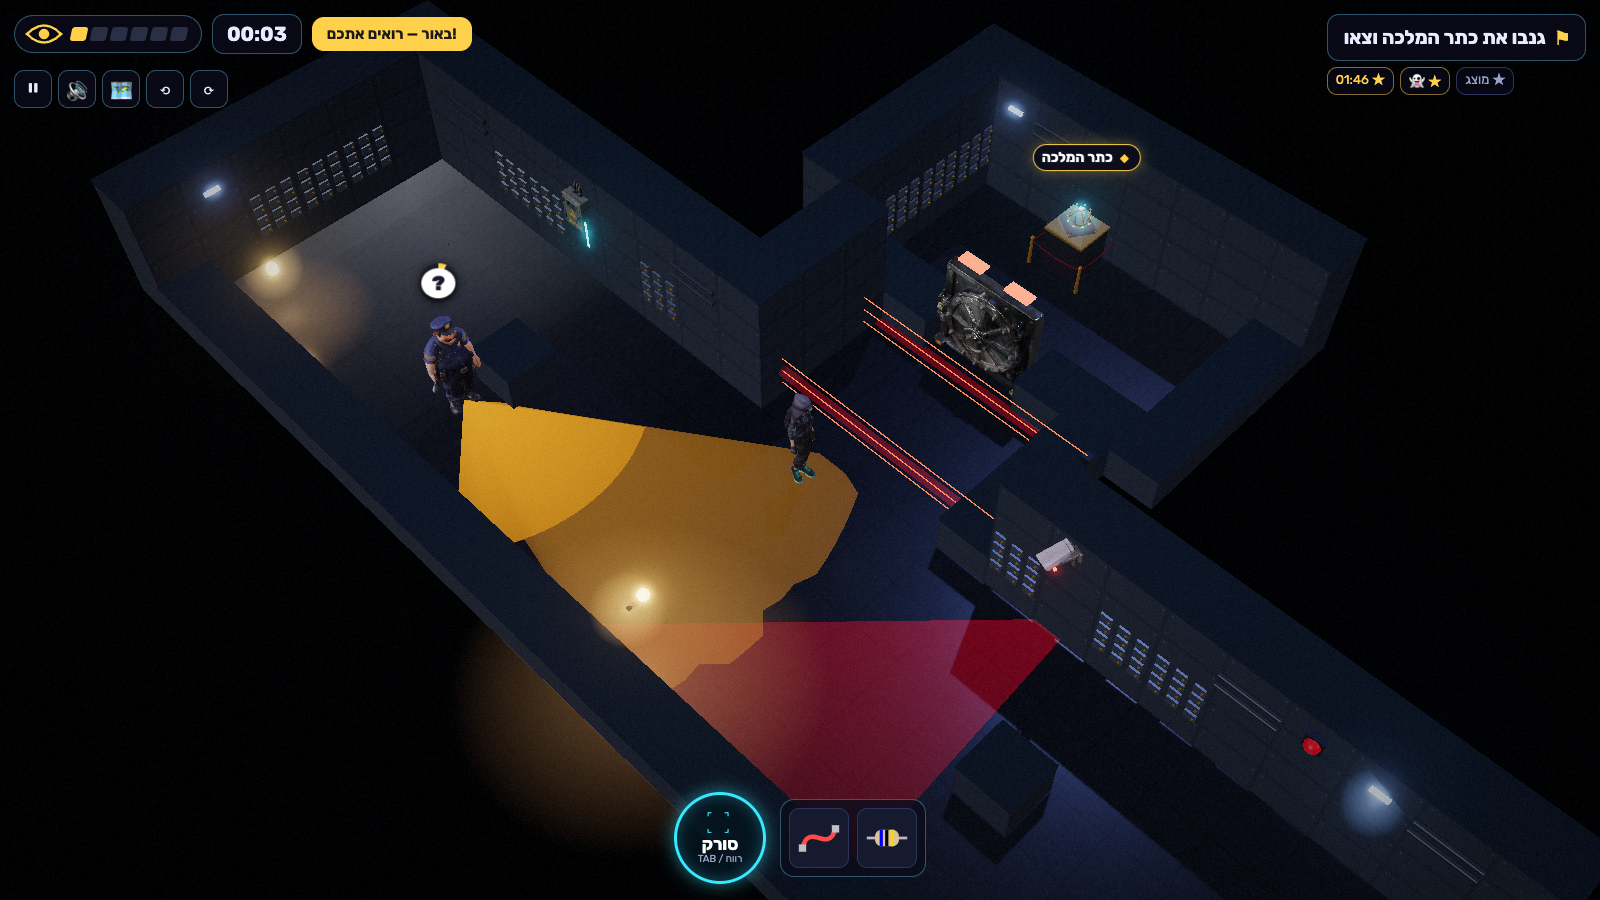
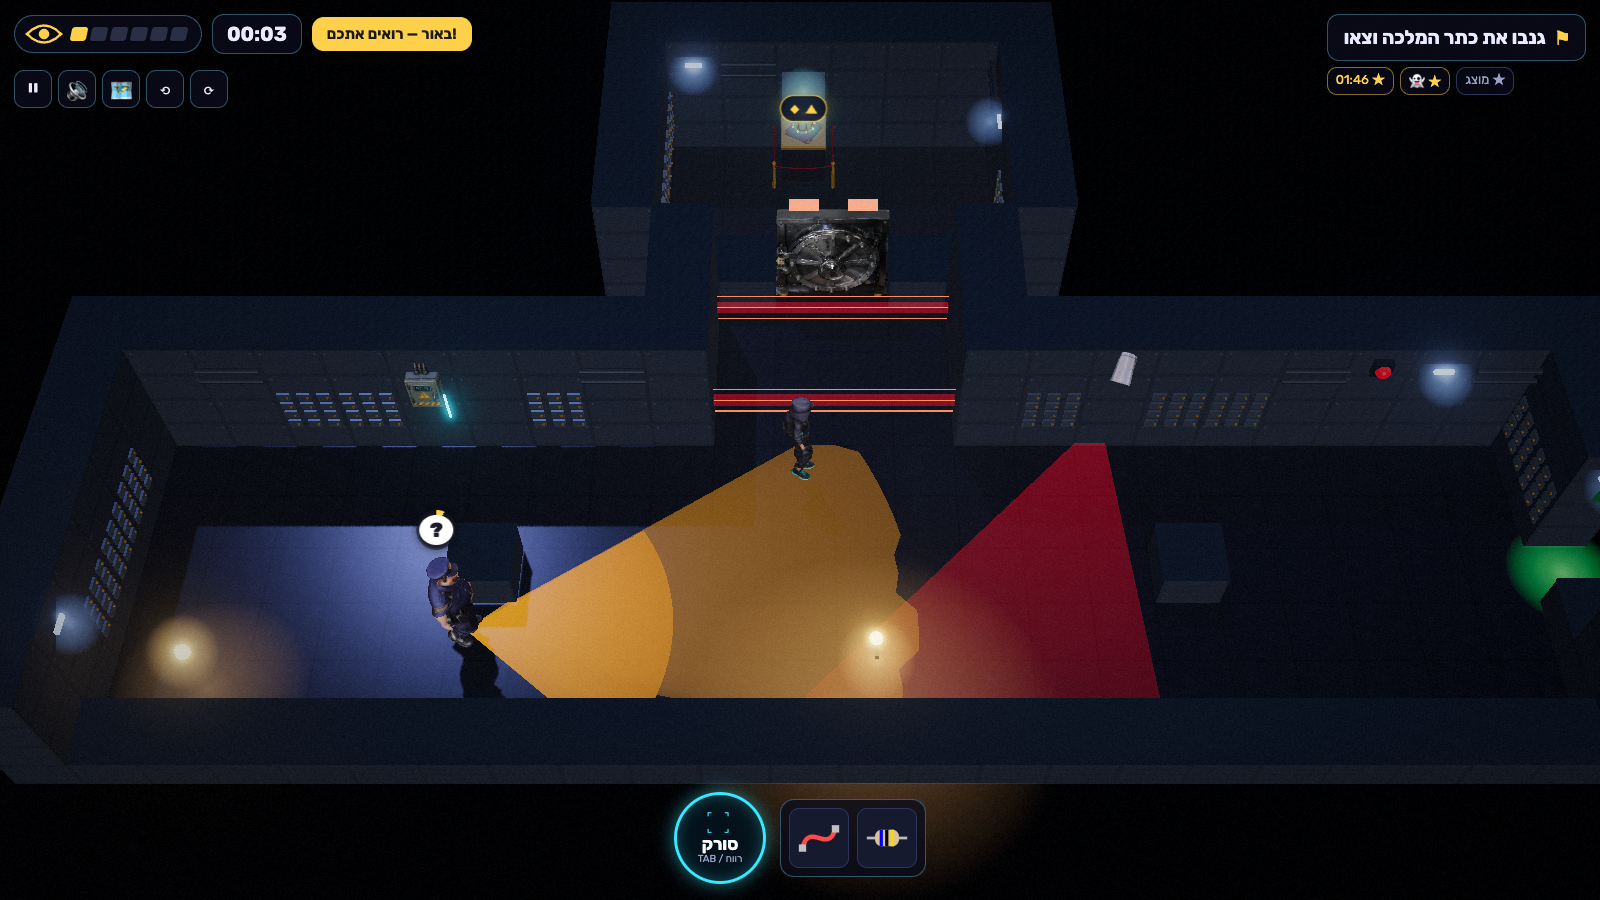
Fix movement: axis-aligned 3/4 camera (WASD matches the grid), circle collision with sliding and door push-out, pause on focus loss, x-ray silhouettes behind walls; fuzz + held-key movement checks

diff --git a/src/render/world.ts b/src/render/world.ts
@@ -67,11 +67,12 @@ export class WorldView {
   readonly labels: Labels;
   readonly fx = new Particles();
   yawIndex = 0;
-  private yaw = Math.PI / 4;
+  private yaw = 0;
   private zoom = 1;
   private endZoom = 1;
   private doorVis: Record<string, number> = {};
   private deskTiles = new Map<string, THREE.Object3D>();
+  private pedestals: THREE.Object3D[] = [];
   private propGroups: { grp: THREE.Group; model: string }[] = [];
   private arcs: THREE.LineSegments[] = [];
   private arcT = 0;
@@ -247,6 +248,7 @@ export class WorldView {
           p.position.copy(tileCenter(x, y));
           makeStanchions(p);
           this.scene.add(p);
+          this.pedestals.push(p);
         } else if (c === 'W') {
           // low sill + frame; the pane is added with the window device
           const sill = new THREE.Mesh(new THREE.BoxGeometry(1, 0.9, 1), this.wallMat);
@@ -274,8 +276,8 @@ export class WorldView {
   private wallFront(x: number, y: number) {
     // Lower a wall when the floor right behind it (seen from the camera) would be hidden.
     const g = this.game.grid;
-    const sx = -Math.sign(Math.sin(this.yawFor(this.yawIndex)));
-    const sz = -Math.sign(Math.cos(this.yawFor(this.yawIndex)));
+    const sx = -Math.round(Math.sin(this.yawFor(this.yawIndex)));
+    const sz = -Math.round(Math.cos(this.yawFor(this.yawIndex)));
     const open = (c: string) => c !== '#' && c !== ' ';
     return open(g.at(x + sx, y)) || open(g.at(x, y + sz)) || open(g.at(x + sx, y + sz));
   }
@@ -573,9 +575,20 @@ export class WorldView {
         holder.position.set((xs + x1) / 2 + 0.5, 0, y + 0.5);
         const guardBehind = this.level.guards.find((gd) => gd.route.length === 1 && Math.abs(gd.route[0].y - y) === 1 && gd.route[0].x >= xs - 1 && gd.route[0].x <= x1 + 1);
         if (guardBehind && guardBehind.route[0].y > y) holder.rotation.y = Math.PI;
+        holder.traverse((o) => (o.renderOrder = 3));
         this.scene.add(holder);
       }
     }
+    this.furnitureAfterCharacters();
+  }
+
+  /** Furniture, pedestals and exhibits draw after the characters, so only walls trigger the x-ray silhouette. */
+  private furnitureAfterCharacters() {
+    const mark = (o: THREE.Object3D) => o.traverse((c) => ((c as THREE.Mesh).isMesh && c.renderOrder === 0 ? (c.renderOrder = 3) : null));
+    for (const d of this.deskTiles.values()) mark(d);
+    for (const g of this.exhibits.values()) mark(g);
+    for (const p of this.propGroups) mark(p.grp);
+    for (const p of this.pedestals) mark(p);
   }
 
   private makeFan(color: number, opacity: number) {
@@ -766,8 +779,9 @@ export class WorldView {
 
   // ───────────────────────── camera
 
+  /** Axis-aligned 3/4 view: walls run straight across the screen and W walks straight up a corridor. */
   private yawFor(i: number) {
-    return Math.PI / 4 + (i * Math.PI) / 2;
+    return (i * Math.PI) / 2;
   }
 
   /** Dotted patrol routes, shown in the overview map. */
@@ -855,6 +869,11 @@ export class WorldView {
     } else {
       // lead the camera a little in the direction the thief is moving
       if (t.moving) want3.add(new THREE.Vector3(Math.cos(t.heading), 0, Math.sin(t.heading)).multiplyScalar(1.2));
+      // keep the building on screen instead of the void around it
+      const g = this.game.grid;
+      const clamp = (v: number, lo: number, hi: number) => (lo > hi ? (lo + hi) / 2 : Math.min(hi, Math.max(lo, v)));
+      want3.x = clamp(want3.x, 5, g.w - 5);
+      want3.z = clamp(want3.z, 3.5, g.h - 3.5);
     }
     const k = snap ? 1 : 1 - Math.exp(-dt * rate);
     this.camTarget.lerp(want3, k);
@@ -866,7 +885,7 @@ export class WorldView {
     this.punch = Math.max(0, this.punch - dt);
     this.endZoom += ((ended ? 0.55 : this.punch > 0 ? 0.78 : this.overview ? Math.max(this.game.grid.w, this.game.grid.h) / 13 : this.attract ? 1.45 : this.intro ? 1.25 : 1) - this.endZoom) * Math.min(1, dt * (this.overview ? 6 : 2.5));
     const dist = 26 * this.zoom * this.endZoom * Math.min(1.6, Math.max(1, 1.2 / aspect));
-    const el = 0.92;
+    const el = 0.98;
     const shake = this.shake > 0 ? (Math.random() - 0.5) * this.shake : 0;
     this.camera.position.set(
       this.camTarget.x + Math.sin(this.yaw) * Math.cos(el) * dist + shake,
@@ -893,7 +912,7 @@ export class WorldView {
     const want = this.insetWant ?? new THREE.Vector3(st.thief.x, 0, st.thief.y);
     this.insetFocus.lerp(want, Math.min(1, dt * 4));
     const dist = 15;
-    const el = 0.92;
+    const el = 0.98;
     this.insetCam.position.set(this.insetFocus.x + Math.sin(this.yaw) * Math.cos(el) * dist, Math.sin(el) * dist, this.insetFocus.z + Math.cos(this.yaw) * Math.cos(el) * dist);
     this.insetCam.lookAt(this.insetFocus.x, 0.5, this.insetFocus.z);
   }
@@ -915,6 +934,12 @@ export class WorldView {
     const scan = opts.scanner;
     // walls fade to dark glass in scanner mode
     this.wallMat.opacity = 1 - scan * 0.7;
+    // opaque walls (scanner off) let the x-ray silhouettes see what hides the characters
+    const glass = scan > 0.02;
+    if (this.wallMat.transparent !== glass) {
+      this.wallMat.transparent = glass;
+      this.wallMat.needsUpdate = true;
+    }
     this.wallMat.color.setRGB(1 - scan * 0.75, 1 - scan * 0.6, 1 - scan * 0.45);
     this.wallMat.depthWrite = scan < 0.5;
     (this.wallCaps.material as THREE.MeshBasicMaterial).opacity = 1 - scan * 0.6;

diff --git a/tests/movement.test.ts b/tests/movement.test.ts
@@ -1,0 +1,80 @@
+import { describe, expect, it } from 'vitest';
+import { LEVELS } from '../src/levels';
+import { Game } from '../src/sim/game';
+
+/** Deterministic PRNG so failures reproduce. */
+function rng(seed: number) {
+  return () => {
+    seed = (seed * 16807) % 2147483647;
+    return seed / 2147483647;
+  };
+}
+
+const R = 0.28;
+/** The body circle overlaps no blocked tile (a hair of tolerance for float error). */
+function bodyClear(g: Game) {
+  const t = g.state.thief;
+  for (let ty = Math.floor(t.y) - 1; ty <= Math.floor(t.y) + 1; ty++)
+    for (let tx = Math.floor(t.x) - 1; tx <= Math.floor(t.x) + 1; tx++) {
+      if (g.grid.walkable(tx, ty)) continue;
+      const cx = Math.min(Math.max(t.x, tx), tx + 1);
+      const cy = Math.min(Math.max(t.y, ty), ty + 1);
+      if (Math.hypot(t.x - cx, t.y - cy) < R - 0.01) return false;
+    }
+  return true;
+}
+
+describe('thief movement never enters walls and never gets stuck', () => {
+  for (const L of LEVELS)
+    for (const seed of [1, 7, 42]) {
+      it(`${L.id} seed ${seed}: random walking stays out of walls`, () => {
+        const g = new Game(L);
+        const r = rng(seed * 101 + L.index);
+        // nobody can catch or alarm us: we're testing movement only
+        g.failWith = () => {};
+        let intent = { x: 0, y: 0, run: false };
+        for (let i = 0; i < 6000; i++) {
+          if (i % 30 === 0) {
+            const a = r() * Math.PI * 2;
+            intent = { x: Math.cos(a), y: Math.sin(a), run: r() < 0.3 };
+            if (r() < 0.15) intent = { x: Math.sign(Math.cos(a)), y: 0, run: false };
+          }
+          g.moveIntent = intent;
+          g.step(1 / 60);
+          expect(bodyClear(g), `inside a wall at ${g.state.thief.x.toFixed(2)},${g.state.thief.y.toFixed(2)} step ${i}`).toBe(true);
+        }
+      });
+    }
+
+  it('a motor door shutting on the thief pushes him out instead of trapping him', () => {
+    const L = LEVELS[0];
+    const g = new Game(L);
+    g.failWith = () => {};
+    g.state.panelOpen = 'p2';
+    const coin = g.placeItem('coin', 'c3', 'g1', 'g2')!;
+    g.closePanel();
+    for (let i = 0; i < 120; i++) g.step(1 / 60);
+    g.state.thief.x = 18.85; // body overlapping the open door tile
+    g.state.thief.y = 4.5;
+    g.state.panelOpen = 'p2';
+    g.pickupPlaced(coin);
+    g.closePanel();
+    for (let i = 0; i < 120; i++) g.step(1 / 60);
+    expect(bodyClear(g)).toBe(true);
+    // and he can still walk along the wall (no sticky collision)
+    const y0 = g.state.thief.y;
+    g.moveIntent = { x: 0, y: 1, run: false };
+    for (let i = 0; i < 30; i++) g.step(1 / 60);
+    expect(g.state.thief.y).toBeGreaterThan(y0 + 0.5);
+  });
+
+  it('pushing diagonally into a wall slides along it', () => {
+    const g = new Game(LEVELS[0]);
+    g.failWith = () => {};
+    g.state.thief.x = 3;
+    g.state.thief.y = 6.5;
+    g.moveIntent = { x: 1, y: -1, run: false }; // north-east into the vestibule's north wall
+    for (let i = 0; i < 30; i++) g.step(1 / 60);
+    expect(g.state.thief.x).toBeGreaterThan(3.5);
+  });
+});

diff --git a/src/sim/game.ts b/src/sim/game.ts
@@ -569,6 +569,7 @@ export class Game {
 
   private updateThief(dt: number) {
     const t = this.state.thief;
+    this.pushOut(t);
     let ix = this.moveIntent.x;
     let iy = this.moveIntent.y;
     if (ix || iy) t.path = [];
@@ -590,10 +591,10 @@ export class Game {
     ix /= Math.max(1, len);
     iy /= Math.max(1, len);
     const sp = (t.running ? RUN : WALK) * dt;
-    const nx = t.x + ix * sp;
-    if (!this.collides(nx, t.y)) t.x = nx;
-    const ny = t.y + iy * sp;
-    if (!this.collides(t.x, ny)) t.y = ny;
+    // move, then slide: walls push the body circle back out along their surface
+    t.x += ix * sp;
+    t.y += iy * sp;
+    this.pushOut(t);
     t.heading = Math.atan2(iy, ix);
     if (t.running && this.state.time - this.state.lastNoise > 0.5) {
       this.state.lastNoise = this.state.time;
@@ -601,16 +602,40 @@ export class Game {
     }
   }
 
-  private collides(x: number, y: number) {
+  /** Push the thief's body circle out of every blocked tile it overlaps (smooth sliding, rounded corners). */
+  private pushOut(t: { x: number; y: number }) {
     const r = THIEF_R;
-    for (const [cx, cy] of [
-      [x - r, y - r],
-      [x + r, y - r],
-      [x - r, y + r],
-      [x + r, y + r],
-    ])
-      if (!this.grid.walkable(Math.floor(cx), Math.floor(cy))) return true;
-    return false;
+    for (let iter = 0; iter < 4; iter++) {
+      let moved = false;
+      for (let ty = Math.floor(t.y - r) - 1; ty <= Math.floor(t.y + r) + 1; ty++)
+        for (let tx = Math.floor(t.x - r) - 1; tx <= Math.floor(t.x + r) + 1; tx++) {
+          if (this.grid.walkable(tx, ty)) continue;
+          const cx = Math.min(Math.max(t.x, tx), tx + 1);
+          const cy = Math.min(Math.max(t.y, ty), ty + 1);
+          const dx = t.x - cx;
+          const dy = t.y - cy;
+          const d = Math.hypot(dx, dy);
+          if (d >= r - 1e-6) continue;
+          moved = true;
+          if (d > 1e-6) {
+            t.x += (dx / d) * (r - d);
+            t.y += (dy / d) * (r - d);
+          } else {
+            // centre inside a blocked tile (e.g. a door shut on you): leave by the nearest open side
+            const opts: [number, number, number][] = [
+              [t.x - tx, -1, 0],
+              [tx + 1 - t.x, 1, 0],
+              [t.y - ty, 0, -1],
+              [ty + 1 - t.y, 0, 1],
+            ];
+            opts.sort((a, b) => a[0] - b[0]);
+            const best = opts.find(([, ox, oy]) => this.grid.walkable(tx + ox, ty + oy)) ?? opts[0];
+            t.x += best[1] * (best[0] + r);
+            t.y += best[2] * (best[0] + r);
+          }
+        }
+      if (!moved) break;
+    }
   }
 
   private makeNoise(x: number, y: number, radius = NOISE_R) {

diff --git a/src/render/actors.ts b/src/render/actors.ts
@@ -14,6 +14,40 @@ export interface Actor {
   usesModel: boolean;
 }
 
+// ───────────────────────── x-ray silhouettes
+
+/**
+ * Give every mesh of a character a twin that draws only where the character is hidden
+ * (depth test "greater"), so you can always see where you and the guards are behind walls.
+ * Twins render just before the character, so the visible parts overwrite them.
+ */
+export function addSilhouette(root: THREE.Object3D, color: number) {
+  // opaque on purpose: it must render in the opaque pass, after walls and before the character
+  const mat = new THREE.MeshBasicMaterial({ color, depthFunc: THREE.GreaterDepth, depthWrite: false });
+  const meshes: THREE.Mesh[] = [];
+  root.traverse((o) => {
+    if ((o as THREE.Mesh).isMesh && !o.userData.silhouette) meshes.push(o as THREE.Mesh);
+  });
+  for (const m of meshes) {
+    let twin: THREE.Mesh;
+    if ((m as THREE.SkinnedMesh).isSkinnedMesh) {
+      const sm = m as THREE.SkinnedMesh;
+      const t = new THREE.SkinnedMesh(sm.geometry, mat);
+      t.bind(sm.skeleton, sm.bindMatrix);
+      t.bindMode = sm.bindMode;
+      twin = t;
+    } else twin = new THREE.Mesh(m.geometry, mat);
+    twin.userData.silhouette = true;
+    twin.position.copy(m.position);
+    twin.quaternion.copy(m.quaternion);
+    twin.scale.copy(m.scale);
+    twin.renderOrder = 1;
+    twin.frustumCulled = false;
+    m.renderOrder = 2;
+    m.parent!.add(twin);
+  }
+}
+
 // ───────────────────────── GLB cache
 
 const loader = new GLTFLoader();
@@ -267,6 +301,8 @@ export function createActor(kind: 'thief' | 'guard', onSwap?: (a: Actor) => void
   holder.add(lampAnchor);
   const syncAnchor = () => lampAnchor.position.copy(inner.lampAnchor.position).multiplyScalar(inner.root.scale.x);
   syncAnchor();
+  const silColor = kind === 'thief' ? 0x1f9fb8 : 0xb8781f;
+  addSilhouette(inner.root, silColor);
   const actor: Actor = {
     root: holder,
     lampAnchor,
@@ -283,6 +319,7 @@ export function createActor(kind: 'thief' | 'guard', onSwap?: (a: Actor) => void
     if (!g || !g.animations.length) return;
     const meta = MODEL_META[kind];
     const next = glbActor(g, meta.height, meta.yaw, meta.stride);
+    addSilhouette(next.root, silColor);
     holder.remove(inner.root);
     inner = next;
     holder.add(next.root);

diff --git a/src/main.ts b/src/main.ts
@@ -165,6 +165,7 @@ function syncSettingsUi() {
 }
 
 function setScreen(s: Screen) {
+  if (s !== 'pause') $('pauseWhy').classList.add('hidden');
   screen = s;
   if (s === 'pause') syncSettingsUi();
   for (const id of ['scrTitle', 'scrBrief', 'scrFail', 'scrWin', 'scrPause']) $(id).classList.add('hidden');
@@ -898,6 +899,11 @@ window.addEventListener('keyup', (e) => {
 window.addEventListener('blur', () => {
   keys.clear();
   scannerHeld = false;
+  // keys are going somewhere else now (another window, a chat box): pause and say so
+  if (screen === 'play' && !externalClock && !panelView) {
+    $('pauseWhy').classList.remove('hidden');
+    setScreen('pause');
+  }
 });
 document.addEventListener('visibilitychange', () => {
   if (document.hidden && screen === 'play' && !externalClock) setScreen('pause');

diff --git a/index.html b/index.html
@@ -126,6 +126,7 @@
       <section id="scrPause" class="screen hidden">
         <div class="brief-card">
           <h2>הפסקה</h2>
+          <p class="pause-why hidden" id="pauseWhy">⌨ המקלדת יצאה מהמשחק. לחצו על "ממשיכים" (או בכל מקום במשחק) כדי שהמקשים יגיעו אליו.</p>
           <div class="settings">
             <label>🎵 מוזיקה <input type="range" id="optMusic" min="0" max="1" step="0.05" /></label>
             <label><input type="checkbox" id="optMute" /> השתקת כל הצלילים</label>

diff --git a/src/style.css b/src/style.css
@@ -270,3 +270,4 @@ body.in-panel .hud-tr .goals, body.in-panel .step-line { display: none; }
 .level-card .lock { inset: auto; top: 6px; left: 6px; width: 28px; height: 28px; font-size: 16px; border-radius: 8px; background: rgba(3, 3, 10, 0.75); }
 .pv-slot.dead { color: #a0a6b8; border-color: #6a7080; }
 body.in-panel .toast { top: auto; bottom: 120px; }
+.pause-why { background: rgba(255, 208, 74, 0.12); border: 1.5px solid var(--yellow); border-radius: 12px; padding: 10px 14px; font-size: 16px !important; }

diff --git a/PLAYTEST.md b/PLAYTEST.md
@@ -73,6 +73,14 @@ The critic played the live build at 1440×900 and 390×844. It found 18 issues; 
 | Title lock covered names; Hebrew grammar | Corner lock badge; definite item names ("כפפת הגומי"); "!!" shown as ❗. |
 | Flat steal moment | Hit-stop, camera punch-in, the exhibit arcs into the backpack, a dashed green route to the exit. |
 
+## Movement fix (user report: "going through walls, getting stuck")
+
+- **Cause 1 — camera:** the 45° diamond view made WASD (screen-relative) walk diagonally across the grid, so you scraped along walls at odd angles and wedged into corners. The camera is now an axis-aligned 3/4 view (still rotatable in 90° steps): W walks straight up a corridor.
+- **Cause 2 — collision:** the body was a square that blocked a whole axis on contact and could be trapped when a door or window shut on its edge. It's now a circle pushed out of walls every step (smooth sliding, rounded corners, pushed clear of a closing door).
+- **Cause 3 — keyboard focus:** keys typed while the game didn't have focus went elsewhere (e.g. a chat box). The game now pauses on focus loss and says so.
+- **Visibility:** characters hidden behind a wall show an x-ray silhouette (cyan thief, amber guards); furniture doesn't trigger it.
+- **Verified:** 18 fuzz runs (6 heists × 3 seeds × 6,000 steps of random walking: the body never overlaps a wall), a door-closing regression test, a diagonal-slide test, and real held-key sessions in every heist (`scripts/walkcheck.mjs`: D/W/A/S move right/up/left/down, stopping cleanly at walls). 95 tests pass.
+
 ## Known limits
 
 - No sneak/crouch or pointing clip exists in Tripo's preset library (AI Animation not used). The Tesla coil, dynamo, security camera and reception desk are now Tripo models; the crown and Volta pile remain procedural.

diff --git a/docs/VISUAL_REVIEW.md b/docs/VISUAL_REVIEW.md
@@ -16,7 +16,7 @@ Other heists: [2](captures/actual-heist2.png) · [4](captures/actual-heist4.png)
 
 | Aspect | Target | Actual | Verdict |
 |---|---|---|---|
-| Camera | High isometric 3/4 view, cut-away room, whole lobby visible | Perspective 32° FOV at ~53° elevation, 45° yaw, cut-away walls lowered on the camera side, rotates in 90° steps (Z/X) | Matches. The real camera is a little closer so characters stay readable. |
+| Camera | High isometric 3/4 view, cut-away room, whole lobby visible | Perspective 32° FOV at ~56° elevation, axis-aligned (walls run straight across the screen), cut-away walls lowered on the camera side, rotates in 90° steps (Z/X) | Deliberate deviation: the mockup's 45° diamond view made screen-relative WASD fight the grid (player report: stuck / sliding), so the game uses an axis-aligned 3/4 view like Monaco. |
 | Silhouettes | Hooded thief with headlamp + cyan sneakers; chunky guard with cap at a desk | Tripo-generated, Mixamo-rigged thief (hoodie, backpack) and guard (cap, uniform), walk/idle clips playing; guard behind the reception desk | Matches the characters. The guard stands rather than sits (no sitting clip). |
 | Lighting | Indigo night, warm pools, moonlit windows | Warm chandelier pool and glow, indigo moon/hemisphere fill, moonlit window panes and sconces as wall decor, bloom | Close. The real scene is darker overall: deliberate, because light = danger has to read at a glance. |
 | Guard vision | Translucent yellow wedge | Wall-occluded vision fan (bright near/flashlight part + faint far part), turns red as the guard notices | Matches, and it's gameplay-accurate (raycast against walls). |
